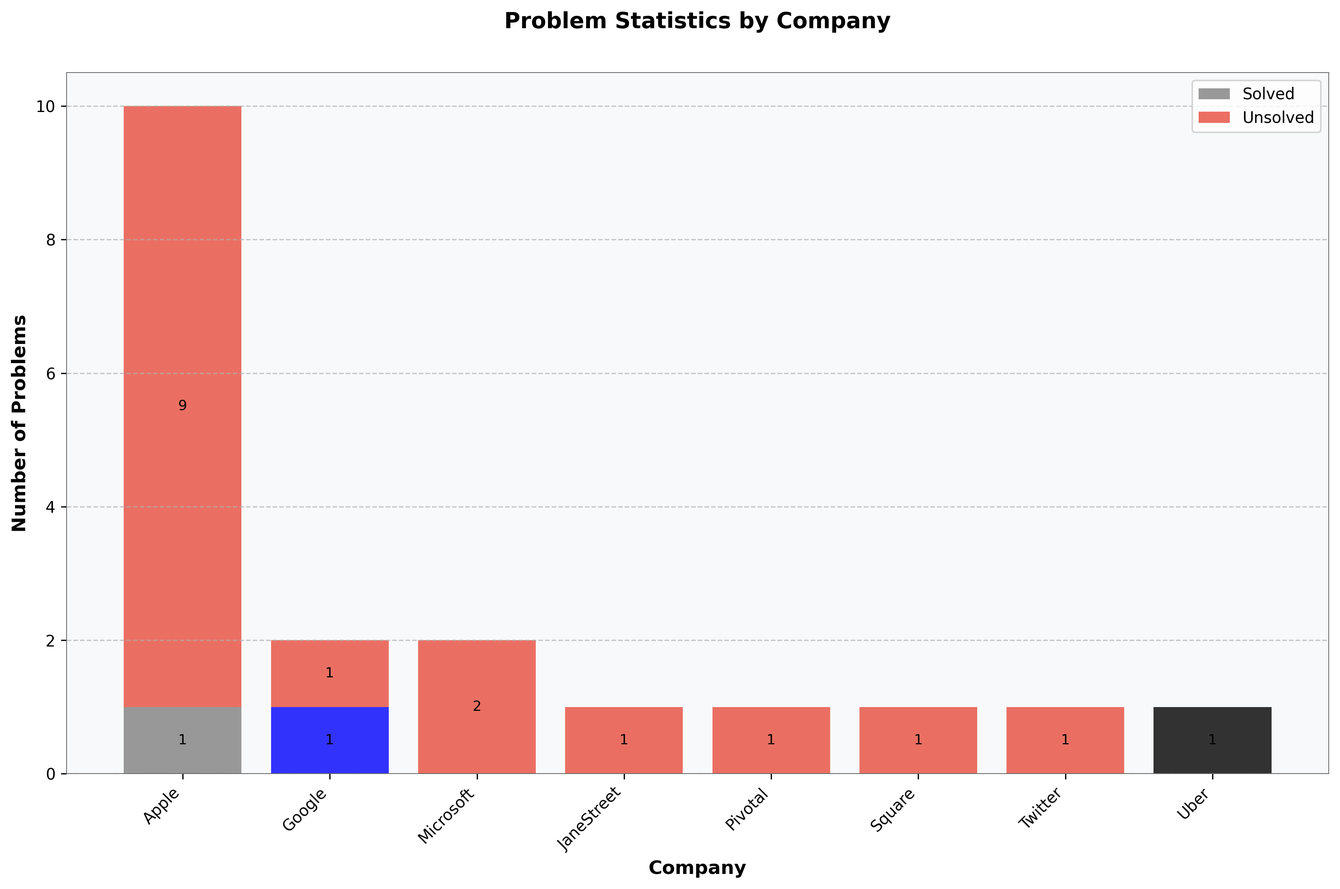
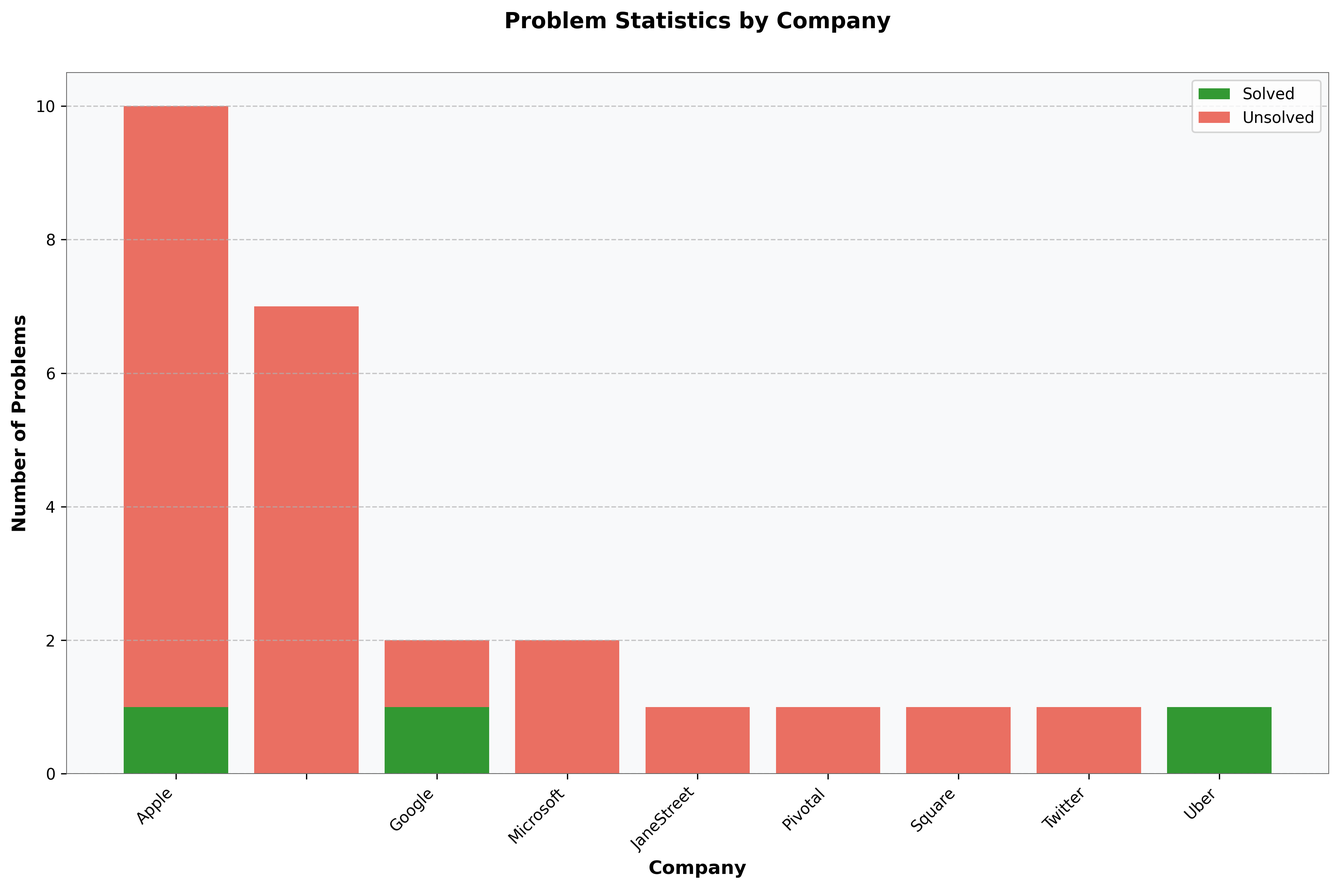
Resolved Comments

diff --git a/scripts/generate_problem_graph.py b/scripts/generate_problem_graph.py
@@ -3,6 +3,7 @@ import os
 import pandas as pd
 import matplotlib.pyplot as plt
 import re
+import logging
 
 # File paths
 PROBLEMS_FILE = "problems.json"
@@ -31,12 +32,19 @@ try:
 except json.JSONDecodeError as e:
     raise ValueError("Error: problems.json is not a valid JSON file.") from e
 
+def handle_companies(x):
+    if isinstance(x, list):
+        # Convert the list of companies to a comma-separated string
+        return ", ".join(x)
+    logging.warning("Expected list for 'companies' field but received %s. Defaulting to ['Unknown'].", type(x).__name__)
+    return "Unknown"
+
+
 # Convert to DataFrame
 df = pd.DataFrame(problems)
 if df.empty:
     raise ValueError("Error: No problems data found in problems.json.")
-df["companies"] = df["companies"].apply(lambda x: x if isinstance(x, list) else ["Unknown"])
-df = df.explode("companies", ignore_index=True)
+df["companies"] = df["companies"].apply(handle_companies)
 
 # Group data by company
 company_stats = (
@@ -53,10 +61,7 @@ fig, ax = plt.subplots(figsize=(12, 8))
 ax.set_facecolor('#f8f9fa')
 fig.patch.set_facecolor('white')
 
-# Use company-specific colors or default color
-bar_colors = [COMPANY_COLORS.get(company, DEFAULT_COLOR) for company in company_stats["companies"]]
-
-bars_solved = ax.bar(company_stats["companies"], company_stats["solved"], color=bar_colors, label="Solved", alpha=0.8)
+bars_solved = ax.bar(company_stats["companies"], company_stats["solved"], color="green", label="Solved", alpha=0.8)
 bars_unsolved = ax.bar(company_stats["companies"], company_stats["unsolved"], bottom=company_stats["solved"], color="#e74c3c", label="Unsolved", alpha=0.8)
 
 ax.set_xlabel("Company", fontsize=12, fontweight='bold')
@@ -67,16 +72,6 @@ ax.set_title("Problem Statistics by Company", fontsize=14, fontweight='bold', y=
 ax.set_xticks(range(len(company_stats["companies"])))
 ax.set_xticklabels(company_stats["companies"], rotation=45, ha="right")
 
-# Add value labels on bars
-def add_value_labels(bars):
-    for bar in bars:
-        height = bar.get_height()
-        if height > 0:
-            ax.text(bar.get_x() + bar.get_width()/2, bar.get_y() + height/2, f'{int(height)}', ha='center', va='center', fontsize=9)
-
-add_value_labels(bars_solved)
-add_value_labels(bars_unsolved)
-
 ax.grid(True, axis='y', linestyle='--', alpha=0.7)
 ax.legend(loc='upper right', fontsize=10)
 
@@ -84,15 +79,16 @@ for spine in ax.spines.values():
     spine.set_linewidth(0.5)
     spine.set_color('#666666')
 
-plt.tight_layout()
-plt.savefig(STATS_IMAGE, dpi=300, bbox_inches='tight', facecolor='white')
-plt.close()
+try:
+    plt.tight_layout()
+    plt.savefig(STATS_IMAGE, dpi=300, bbox_inches='tight', facecolor='white')
+    plt.close()
+except Exception as error:
+    print(f"Error saving image {STATS_IMAGE}: {error}")
 
 
 # Generate Markdown Table
-markdown_table = """## 📊 Problem Statistics
-
-<div align="center">
+markdown_table = """<!-- stats-start -->
 
 <table>
 <tr>
@@ -114,7 +110,7 @@ markdown_table += """</table>
 </tr>
 </table>
 
-</div>
+<!-- stats-end -->
 """
 
 # Update README.md
@@ -123,7 +119,7 @@ try:
         with open(README_FILE, "r") as file:
             content = file.read()
 
-        content = re.sub(r"## 📊 Problem Statistics.*", markdown_table, content, flags=re.DOTALL)
+        content = re.sub(r"<!-- stats-start -->.*?<!-- stats-end -->", markdown_table, content, flags=re.DOTALL)
 
         with open(README_FILE, "w") as file:
             file.write(content)

diff --git a/scripts/update_problems_table.py b/scripts/update_problems_table.py
@@ -2,6 +2,7 @@ import json
 import pandas as pd
 import matplotlib.pyplot as plt
 import os
+import re
 
 # 📂 File Paths
 PROBLEMS_FILE = "problems.json"
@@ -83,32 +84,37 @@ for problem in problems:
     markdown_table += f"| [{problem['title']}]({problem['url']}) | {company_badges} | {difficulty_badge} | {status_badge} |\n"
 
 # 🔄 Update Problems Table in README
+START_MARKER = "<!-- START PROBLEMS TABLE -->"
+END_MARKER = "<!-- END PROBLEMS TABLE -->"
+
 try:
     with open(README_FILE, "r") as readme_file:
-        content = readme_file.readlines()
+        content = readme_file.read()
 
-    start_index = next(
-        (i for i, line in enumerate(content) if "Problem" in line and "Companies" in line and "Difficulty" in line and "Status" in line),
-        None
-    )
+        # Define a pattern to match the existing problems table block.
+        pattern = re.compile(
+            r"<!-- START PROBLEMS TABLE -->.*?<!-- END PROBLEMS TABLE -->",
+            re.DOTALL
+        )
 
-    if start_index is None:
-        print("⚠ Problems table not found in README.md. Appending new table.")
-        updated_content = content + ["\n" + markdown_table]
-    else:
-        end_index = start_index + 1
-        while end_index < len(content) and content[end_index].strip().startswith("|"):
-            end_index += 1
-        updated_content = content[:start_index] + [line + "\n" for line in markdown_table.split("\n")] + content[end_index:]
+        new_table_block = f"{START_MARKER}\n{markdown_table}{END_MARKER}"
 
-    with open(README_FILE, "w") as readme_file:
-        readme_file.writelines(updated_content)
+        if pattern.search(content):
+            # Replace the existing table with the new markdown table
+            updated_content = pattern.sub(new_table_block, content)
+        else:
+            print("⚠ Problems table not found in README.md. Appending new table.")
+            updated_content = content + "\n" + new_table_block
+
+        with open(README_FILE, "w") as readme_file:
+            readme_file.write(updated_content)
 
     print("✅ README.md successfully updated with new problem list.")
 
 except FileNotFoundError:
     print("⚠ README.md not found. Creating a new one with the problem list.")
     with open(README_FILE, "w") as file:
-        file.write(markdown_table)
+        file.write(new_table_block)
 
 print("🚀 Script execution completed successfully!")
+

diff --git a/scripts/fetch_issues.py b/scripts/fetch_issues.py
@@ -4,28 +4,34 @@ import requests
 # GitHub repo details
 REPO_OWNER = "Razeen-Shaikh"
 REPO_NAME = "dailyCodingProblem"
-API_URL = f"https://api.github.com/repos/{REPO_OWNER}/{REPO_NAME}/issues?state=all&per_page=100&page="  # `per_page=100` to get more issues per request
+API_URL = f"https://api.github.com/repos/{REPO_OWNER}/{REPO_NAME}/issues?state=all&per_page=100&page="
 
 def fetch_all_issues(api_url):
     issues = []
     page = 1  # Start from the first page
 
     while True:
-        response = requests.get(api_url + str(page), headers={"Accept": "application/vnd.github.v3+json"})
-        
+        response = requests.get(api_url + str(page), headers={"Accept": "application/vnd.github.v3+json"}, timeout=10)
+
         if response.status_code == 200:
             page_issues = response.json()
-            
+
             # If there are no issues returned, break the loop
             if not page_issues:
                 break
-            
+
             issues.extend(page_issues)
             page += 1  # Increment to fetch the next page
+        elif response.status_code == 403:
+            if retry_after := response.headers.get("Retry-After"):
+                print(f"⚠ Rate limit exceeded on page {page}. Please retry after {retry_after} seconds.")
+            else:
+                print(f"⚠ Rate limit exceeded on page {page}. Please wait before retrying.")
+            break
         else:
             print(f"❌ Failed to fetch GitHub issues on page {page}: {response.status_code}")
             break
-    
+
     return issues
 
 # Fetch all GitHub issues using pagination

diff --git a/README.md b/README.md
@@ -1,50 +1,62 @@
+
 # Daily Coding Problem
 
----
+### 🏆 Problems List
 
-## 🏆 Problems List
+<!-- START PROBLEMS TABLE -->
+| Problem | Companies | Difficulty | Status |
+|---------|-----------|------------|--------|
+| [Daily Coding Problem: Problem #273](https://github.com/Razeen-Shaikh/dailyCodingProblem/issues/27) | ![Apple](https://img.shields.io/badge/-Apple-gray?style=flat&logo=apple) | ![Easy](https://img.shields.io/badge/Difficulty-Easy-brightgreen?style=flat) | ![InProgress](https://img.shields.io/badge/Status-InProgress-yellow?style=flat) |
+| [Daily Coding Problem: Problem #266](https://github.com/Razeen-Shaikh/dailyCodingProblem/issues/26) | ![Pivotal](https://img.shields.io/badge/-Pivotal-teal?style=flat&logo=pivotal) | ![Easy](https://img.shields.io/badge/Difficulty-Easy-brightgreen?style=flat) | ![InProgress](https://img.shields.io/badge/Status-InProgress-yellow?style=flat) |
+| [Daily Coding Problem: Problem #233](https://github.com/Razeen-Shaikh/dailyCodingProblem/issues/25) | ![Apple](https://img.shields.io/badge/-Apple-gray?style=flat&logo=apple) | ![Easy](https://img.shields.io/badge/Difficulty-Easy-brightgreen?style=flat) | ![InProgress](https://img.shields.io/badge/Status-InProgress-yellow?style=flat) |
+| [Daily Coding Problem: Problem #210](https://github.com/Razeen-Shaikh/dailyCodingProblem/issues/24) | ![Apple](https://img.shields.io/badge/-Apple-gray?style=flat&logo=apple) | ![Easy](https://img.shields.io/badge/Difficulty-Easy-brightgreen?style=flat) | ![InProgress](https://img.shields.io/badge/Status-InProgress-yellow?style=flat) |
+| [Daily Coding Problem: Problem #196](https://github.com/Razeen-Shaikh/dailyCodingProblem/issues/23) | ![Apple](https://img.shields.io/badge/-Apple-gray?style=flat&logo=apple) | ![Easy](https://img.shields.io/badge/Difficulty-Easy-brightgreen?style=flat) | ![InProgress](https://img.shields.io/badge/Status-InProgress-yellow?style=flat) |
+| [Daily Coding Problem: Problem #162](https://github.com/Razeen-Shaikh/dailyCodingProblem/issues/22) | ![Square](https://img.shields.io/badge/-Square-purple?style=flat&logo=square) | ![Medium](https://img.shields.io/badge/Difficulty-Medium-orange?style=flat) | ![InProgress](https://img.shields.io/badge/Status-InProgress-yellow?style=flat) |
+| [Daily Coding Problem: Problem #148](https://github.com/Razeen-Shaikh/dailyCodingProblem/issues/21) | ![Apple](https://img.shields.io/badge/-Apple-gray?style=flat&logo=apple) | ![Medium](https://img.shields.io/badge/Difficulty-Medium-orange?style=flat) | ![InProgress](https://img.shields.io/badge/Status-InProgress-yellow?style=flat) |
+| [Daily Coding Problem: Problem #135](https://github.com/Razeen-Shaikh/dailyCodingProblem/issues/20) | ![Apple](https://img.shields.io/badge/-Apple-gray?style=flat&logo=apple) | ![Easy](https://img.shields.io/badge/Difficulty-Easy-brightgreen?style=flat) | ![InProgress](https://img.shields.io/badge/Status-InProgress-yellow?style=flat) |
+| [Daily Coding Problem: Problem #93](https://github.com/Razeen-Shaikh/dailyCodingProblem/issues/19) | ![Apple](https://img.shields.io/badge/-Apple-gray?style=flat&logo=apple) | ![Hard](https://img.shields.io/badge/Difficulty-Hard-red?style=flat) | ![InProgress](https://img.shields.io/badge/Status-InProgress-yellow?style=flat) |
+| [Daily Coding Problem: Problem #74](https://github.com/Razeen-Shaikh/dailyCodingProblem/issues/18) | ![Apple](https://img.shields.io/badge/-Apple-gray?style=flat&logo=apple) | ![Medium](https://img.shields.io/badge/Difficulty-Medium-orange?style=flat) | ![InProgress](https://img.shields.io/badge/Status-InProgress-yellow?style=flat) |
+| [Daily Coding Problem: Problem #53](https://github.com/Razeen-Shaikh/dailyCodingProblem/issues/17) | ![Apple](https://img.shields.io/badge/-Apple-gray?style=flat&logo=apple) | ![Medium](https://img.shields.io/badge/Difficulty-Medium-orange?style=flat) | ![InProgress](https://img.shields.io/badge/Status-InProgress-yellow?style=flat) |
+| [Daily Coding Problem: Problem #33](https://github.com/Razeen-Shaikh/dailyCodingProblem/issues/16) | ![Microsoft](https://img.shields.io/badge/-Microsoft-green?style=flat&logo=microsoft) | ![Easy](https://img.shields.io/badge/Difficulty-Easy-brightgreen?style=flat) | ![InProgress](https://img.shields.io/badge/Status-InProgress-yellow?style=flat) |
+| [Daily Coding Problem #32](https://github.com/Razeen-Shaikh/dailyCodingProblem/issues/15) | ![JaneStreet](https://img.shields.io/badge/-JaneStreet-red?style=flat&logo=janestreet) | ![Hard](https://img.shields.io/badge/Difficulty-Hard-red?style=flat) | ![InProgress](https://img.shields.io/badge/Status-InProgress-yellow?style=flat) |
+| [Daily Coding Problem #22](https://github.com/Razeen-Shaikh/dailyCodingProblem/issues/2) | ![Microsoft](https://img.shields.io/badge/-Microsoft-green?style=flat&logo=microsoft) | ![Medium](https://img.shields.io/badge/Difficulty-Medium-orange?style=flat) | ![InProgress](https://img.shields.io/badge/Status-InProgress-yellow?style=flat) |
+| [Daily Coding Problem #14](https://github.com/Razeen-Shaikh/dailyCodingProblem/issues/13) | ![Google](https://img.shields.io/badge/-Google-blue?style=flat&logo=google) | ![Medium](https://img.shields.io/badge/Difficulty-Medium-orange?style=flat) | ![InProgress](https://img.shields.io/badge/Status-InProgress-yellow?style=flat) |
+| [Daily Coding Problem #11](https://github.com/Razeen-Shaikh/dailyCodingProblem/issues/14) | ![Twitter](https://img.shields.io/badge/-Twitter-lightblue?style=flat&logo=twitter) | ![Medium](https://img.shields.io/badge/Difficulty-Medium-orange?style=flat) | ![InProgress](https://img.shields.io/badge/Status-InProgress-yellow?style=flat) |
+| [Daily Coding Problem #9 [Hard]](https://github.com/Razeen-Shaikh/dailyCodingProblem/issues/11) |  | ![Unknown](https://img.shields.io/badge/Difficulty-Unknown-lightgray?style=flat) | ![InProgress](https://img.shields.io/badge/Status-InProgress-yellow?style=flat) |
+| [Daily Coding Problem #8 [Easy]](https://github.com/Razeen-Shaikh/dailyCodingProblem/issues/10) |  | ![Unknown](https://img.shields.io/badge/Difficulty-Unknown-lightgray?style=flat) | ![InProgress](https://img.shields.io/badge/Status-InProgress-yellow?style=flat) |
+| [Daily Coding Problem #7 [Medium]](https://github.com/Razeen-Shaikh/dailyCodingProblem/issues/9) |  | ![Unknown](https://img.shields.io/badge/Difficulty-Unknown-lightgray?style=flat) | ![InProgress](https://img.shields.io/badge/Status-InProgress-yellow?style=flat) |
+| [Daily Coding Problem #6 [Hard]](https://github.com/Razeen-Shaikh/dailyCodingProblem/issues/8) |  | ![Unknown](https://img.shields.io/badge/Difficulty-Unknown-lightgray?style=flat) | ![InProgress](https://img.shields.io/badge/Status-InProgress-yellow?style=flat) |
+| [Daily Coding Problem #5 [Medium]](https://github.com/Razeen-Shaikh/dailyCodingProblem/issues/7) |  | ![Unknown](https://img.shields.io/badge/Difficulty-Unknown-lightgray?style=flat) | ![InProgress](https://img.shields.io/badge/Status-InProgress-yellow?style=flat) |
+| [Daily Coding Problem #4 [Hard]](https://github.com/Razeen-Shaikh/dailyCodingProblem/issues/6) |  | ![Unknown](https://img.shields.io/badge/Difficulty-Unknown-lightgray?style=flat) | ![InProgress](https://img.shields.io/badge/Status-InProgress-yellow?style=flat) |
+| [Daily Coding Problem: Problem #3 [Medium]](https://github.com/Razeen-Shaikh/dailyCodingProblem/issues/5) |  | ![Unknown](https://img.shields.io/badge/Difficulty-Unknown-lightgray?style=flat) | ![InProgress](https://img.shields.io/badge/Status-InProgress-yellow?style=flat) |
+| [Array Product Except Self](https://github.com/Razeen-Shaikh/dailyCodingProblem/issues/4) | ![Uber](https://img.shields.io/badge/-Uber-black?style=flat&logo=uber) | ![Hard](https://img.shields.io/badge/Difficulty-Hard-red?style=flat) | ![Solved](https://img.shields.io/badge/Status-Solved-success?style=flat) |
+| [Job Scheduler](https://github.com/Razeen-Shaikh/dailyCodingProblem/issues/12) | ![Apple](https://img.shields.io/badge/-Apple-gray?style=flat&logo=apple) | ![Medium](https://img.shields.io/badge/Difficulty-Medium-orange?style=flat) | ![Solved](https://img.shields.io/badge/Status-Solved-success?style=flat) |
+| [Two Sum](https://github.com/Razeen-Shaikh/dailyCodingProblem/issues/3) | ![Google](https://img.shields.io/badge/-Google-blue?style=flat&logo=google) | ![Easy](https://img.shields.io/badge/Difficulty-Easy-brightgreen?style=flat) | ![Solved](https://img.shields.io/badge/Status-Solved-success?style=flat) |
+<!-- END PROBLEMS TABLE -->
 
-| Problem                                                                                                   | Companies                                                                              | Difficulty                                                                       | Status                                                                          |
-| --------------------------------------------------------------------------------------------------------- | -------------------------------------------------------------------------------------- | -------------------------------------------------------------------------------- | ------------------------------------------------------------------------------- |
-| [Daily Coding Problem: Problem #273](https://github.com/Razeen-Shaikh/dailyCodingProblem/issues/27)       | ![Apple](https://img.shields.io/badge/-Apple-gray?style=flat&logo=apple)               | ![Easy](https://img.shields.io/badge/Difficulty-Easy-brightgreen?style=flat)     | ![InProgress](https://img.shields.io/badge/Status-InProgress-yellow?style=flat) |
-| [Daily Coding Problem: Problem #266](https://github.com/Razeen-Shaikh/dailyCodingProblem/issues/26)       | ![Pivotal](https://img.shields.io/badge/-Pivotal-teal?style=flat&logo=pivotal)         | ![Easy](https://img.shields.io/badge/Difficulty-Easy-brightgreen?style=flat)     | ![InProgress](https://img.shields.io/badge/Status-InProgress-yellow?style=flat) |
-| [Daily Coding Problem: Problem #233](https://github.com/Razeen-Shaikh/dailyCodingProblem/issues/25)       | ![Apple](https://img.shields.io/badge/-Apple-gray?style=flat&logo=apple)               | ![Easy](https://img.shields.io/badge/Difficulty-Easy-brightgreen?style=flat)     | ![InProgress](https://img.shields.io/badge/Status-InProgress-yellow?style=flat) |
-| [Daily Coding Problem: Problem #210](https://github.com/Razeen-Shaikh/dailyCodingProblem/issues/24)       | ![Apple](https://img.shields.io/badge/-Apple-gray?style=flat&logo=apple)               | ![Easy](https://img.shields.io/badge/Difficulty-Easy-brightgreen?style=flat)     | ![InProgress](https://img.shields.io/badge/Status-InProgress-yellow?style=flat) |
-| [Daily Coding Problem: Problem #196](https://github.com/Razeen-Shaikh/dailyCodingProblem/issues/23)       | ![Apple](https://img.shields.io/badge/-Apple-gray?style=flat&logo=apple)               | ![Easy](https://img.shields.io/badge/Difficulty-Easy-brightgreen?style=flat)     | ![InProgress](https://img.shields.io/badge/Status-InProgress-yellow?style=flat) |
-| [Daily Coding Problem: Problem #162](https://github.com/Razeen-Shaikh/dailyCodingProblem/issues/22)       | ![Square](https://img.shields.io/badge/-Square-purple?style=flat&logo=square)          | ![Medium](https://img.shields.io/badge/Difficulty-Medium-orange?style=flat)      | ![InProgress](https://img.shields.io/badge/Status-InProgress-yellow?style=flat) |
-| [Daily Coding Problem: Problem #148](https://github.com/Razeen-Shaikh/dailyCodingProblem/issues/21)       | ![Apple](https://img.shields.io/badge/-Apple-gray?style=flat&logo=apple)               | ![Medium](https://img.shields.io/badge/Difficulty-Medium-orange?style=flat)      | ![InProgress](https://img.shields.io/badge/Status-InProgress-yellow?style=flat) |
-| [Daily Coding Problem: Problem #135](https://github.com/Razeen-Shaikh/dailyCodingProblem/issues/20)       | ![Apple](https://img.shields.io/badge/-Apple-gray?style=flat&logo=apple)               | ![Easy](https://img.shields.io/badge/Difficulty-Easy-brightgreen?style=flat)     | ![InProgress](https://img.shields.io/badge/Status-InProgress-yellow?style=flat) |
-| [Daily Coding Problem: Problem #93](https://github.com/Razeen-Shaikh/dailyCodingProblem/issues/19)        | ![Apple](https://img.shields.io/badge/-Apple-gray?style=flat&logo=apple)               | ![Hard](https://img.shields.io/badge/Difficulty-Hard-red?style=flat)             | ![InProgress](https://img.shields.io/badge/Status-InProgress-yellow?style=flat) |
-| [Daily Coding Problem: Problem #74](https://github.com/Razeen-Shaikh/dailyCodingProblem/issues/18)        | ![Apple](https://img.shields.io/badge/-Apple-gray?style=flat&logo=apple)               | ![Medium](https://img.shields.io/badge/Difficulty-Medium-orange?style=flat)      | ![InProgress](https://img.shields.io/badge/Status-InProgress-yellow?style=flat) |
-| [Daily Coding Problem: Problem #53](https://github.com/Razeen-Shaikh/dailyCodingProblem/issues/17)        | ![Apple](https://img.shields.io/badge/-Apple-gray?style=flat&logo=apple)               | ![Medium](https://img.shields.io/badge/Difficulty-Medium-orange?style=flat)      | ![InProgress](https://img.shields.io/badge/Status-InProgress-yellow?style=flat) |
-| [Daily Coding Problem: Problem #33](https://github.com/Razeen-Shaikh/dailyCodingProblem/issues/16)        | ![Microsoft](https://img.shields.io/badge/-Microsoft-green?style=flat&logo=microsoft)  | ![Easy](https://img.shields.io/badge/Difficulty-Easy-brightgreen?style=flat)     | ![InProgress](https://img.shields.io/badge/Status-InProgress-yellow?style=flat) |
-| [Daily Coding Problem #32](https://github.com/Razeen-Shaikh/dailyCodingProblem/issues/15)                 | ![JaneStreet](https://img.shields.io/badge/-JaneStreet-red?style=flat&logo=janestreet) | ![Hard](https://img.shields.io/badge/Difficulty-Hard-red?style=flat)             | ![InProgress](https://img.shields.io/badge/Status-InProgress-yellow?style=flat) |
-| [Daily Coding Problem #22](https://github.com/Razeen-Shaikh/dailyCodingProblem/issues/2)                  | ![Microsoft](https://img.shields.io/badge/-Microsoft-green?style=flat&logo=microsoft)  | ![Medium](https://img.shields.io/badge/Difficulty-Medium-orange?style=flat)      | ![InProgress](https://img.shields.io/badge/Status-InProgress-yellow?style=flat) |
-| [Daily Coding Problem #14](https://github.com/Razeen-Shaikh/dailyCodingProblem/issues/13)                 | ![Google](https://img.shields.io/badge/-Google-blue?style=flat&logo=google)            | ![Medium](https://img.shields.io/badge/Difficulty-Medium-orange?style=flat)      | ![InProgress](https://img.shields.io/badge/Status-InProgress-yellow?style=flat) |
-| [Daily Coding Problem #11](https://github.com/Razeen-Shaikh/dailyCodingProblem/issues/14)                 | ![Twitter](https://img.shields.io/badge/-Twitter-lightblue?style=flat&logo=twitter)    | ![Medium](https://img.shields.io/badge/Difficulty-Medium-orange?style=flat)      | ![InProgress](https://img.shields.io/badge/Status-InProgress-yellow?style=flat) |
-| [Daily Coding Problem #9 [Hard]](https://github.com/Razeen-Shaikh/dailyCodingProblem/issues/11)           |                                                                                        | ![Unknown](https://img.shields.io/badge/Difficulty-Unknown-lightgray?style=flat) | ![InProgress](https://img.shields.io/badge/Status-InProgress-yellow?style=flat) |
-| [Daily Coding Problem #8 [Easy]](https://github.com/Razeen-Shaikh/dailyCodingProblem/issues/10)           |                                                                                        | ![Unknown](https://img.shields.io/badge/Difficulty-Unknown-lightgray?style=flat) | ![InProgress](https://img.shields.io/badge/Status-InProgress-yellow?style=flat) |
-| [Daily Coding Problem #7 [Medium]](https://github.com/Razeen-Shaikh/dailyCodingProblem/issues/9)          |                                                                                        | ![Unknown](https://img.shields.io/badge/Difficulty-Unknown-lightgray?style=flat) | ![InProgress](https://img.shields.io/badge/Status-InProgress-yellow?style=flat) |
-| [Daily Coding Problem #6 [Hard]](https://github.com/Razeen-Shaikh/dailyCodingProblem/issues/8)            |                                                                                        | ![Unknown](https://img.shields.io/badge/Difficulty-Unknown-lightgray?style=flat) | ![InProgress](https://img.shields.io/badge/Status-InProgress-yellow?style=flat) |
-| [Daily Coding Problem #5 [Medium]](https://github.com/Razeen-Shaikh/dailyCodingProblem/issues/7)          |                                                                                        | ![Unknown](https://img.shields.io/badge/Difficulty-Unknown-lightgray?style=flat) | ![InProgress](https://img.shields.io/badge/Status-InProgress-yellow?style=flat) |
-| [Daily Coding Problem #4 [Hard]](https://github.com/Razeen-Shaikh/dailyCodingProblem/issues/6)            |                                                                                        | ![Unknown](https://img.shields.io/badge/Difficulty-Unknown-lightgray?style=flat) | ![InProgress](https://img.shields.io/badge/Status-InProgress-yellow?style=flat) |
-| [Daily Coding Problem: Problem #3 [Medium]](https://github.com/Razeen-Shaikh/dailyCodingProblem/issues/5) |                                                                                        | ![Unknown](https://img.shields.io/badge/Difficulty-Unknown-lightgray?style=flat) | ![InProgress](https://img.shields.io/badge/Status-InProgress-yellow?style=flat) |
-| [Array Product Except Self](https://github.com/Razeen-Shaikh/dailyCodingProblem/issues/4)                 | ![Uber](https://img.shields.io/badge/-Uber-black?style=flat&logo=uber)                 | ![Hard](https://img.shields.io/badge/Difficulty-Hard-red?style=flat)             | ![Solved](https://img.shields.io/badge/Status-Solved-success?style=flat)        |
-| [Job Scheduler](https://github.com/Razeen-Shaikh/dailyCodingProblem/issues/12)                            | ![Apple](https://img.shields.io/badge/-Apple-gray?style=flat&logo=apple)               | ![Medium](https://img.shields.io/badge/Difficulty-Medium-orange?style=flat)      | ![Solved](https://img.shields.io/badge/Status-Solved-success?style=flat)        |
-| [Two Sum](https://github.com/Razeen-Shaikh/dailyCodingProblem/issues/3)                                   | ![Google](https://img.shields.io/badge/-Google-blue?style=flat&logo=google)            | ![Easy](https://img.shields.io/badge/Difficulty-Easy-brightgreen?style=flat)     | ![Solved](https://img.shields.io/badge/Status-Solved-success?style=flat)        |
 
----
 
-## 📊 Problem Statistics
 
-<div align="center">
 
-<table width="100%">
+
+
+
+
+
+
+
+
+### 📊 Problem Statistics
+
+<!-- stats-start -->
+
+<table>
 <tr>
     <td style="vertical-align: top; padding-right: 20px;">
     <table>
-        <tr><th>Company</th><th>Total</th><th>Solved</th><th>Unsolved</th></tr>
+        <tr><th width="25%">Company</th><th width="25%">Total</th><th width="25%">Solved</th><th>Unsolved</th></tr>
 <tr><td>Apple</td><td>10</td><td>✅ 1</td><td>❌ 9</td></tr>
+<tr><td></td><td>7</td><td>❌ 0</td><td>❌ 7</td></tr>
 <tr><td>Google</td><td>2</td><td>✅ 1</td><td>❌ 1</td></tr>
 <tr><td>Microsoft</td><td>2</td><td>❌ 0</td><td>❌ 2</td></tr>
 <tr><td>JaneStreet</td><td>1</td><td>❌ 0</td><td>❌ 1</td></tr>
@@ -60,4 +72,8 @@
 </tr>
 </table>
 
-</div>
+<!-- stats-end -->
+
+
+
+
